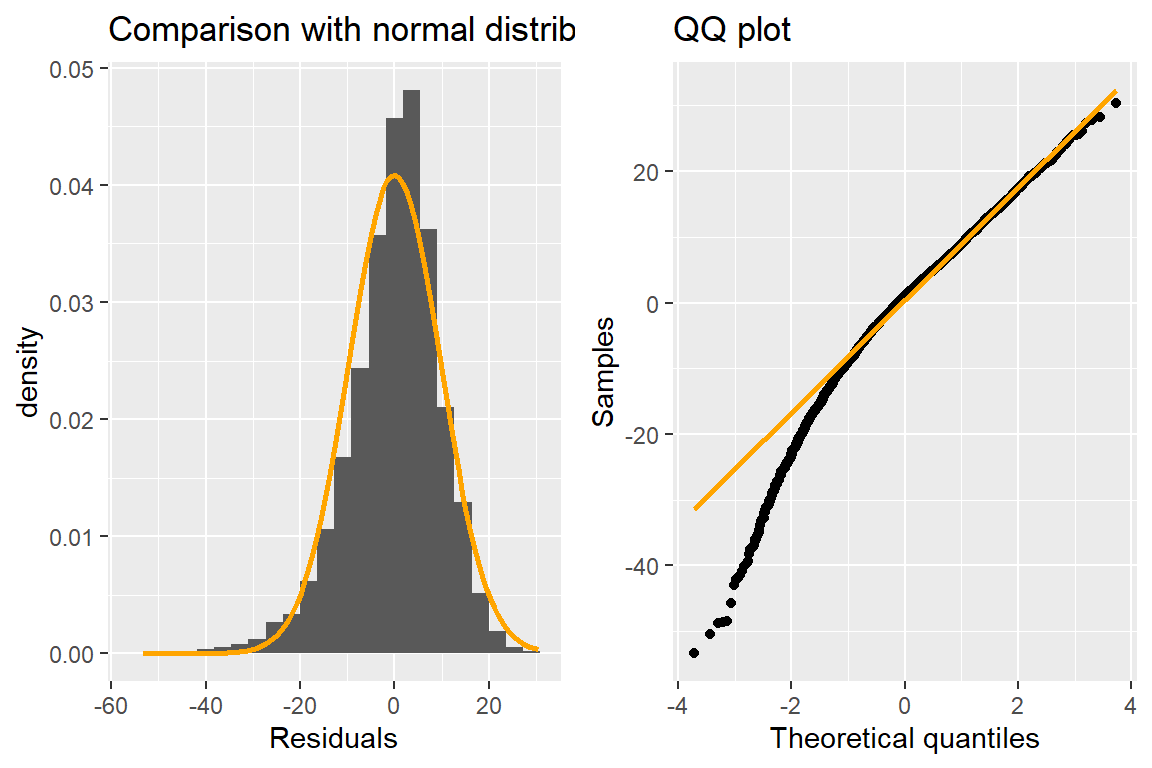
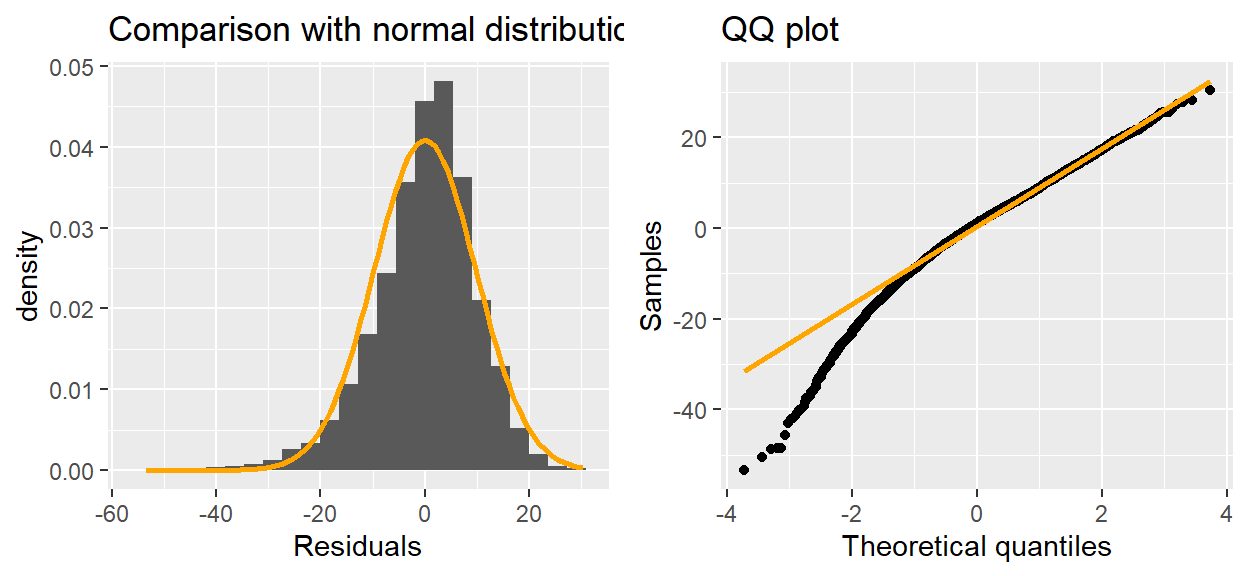
minor fix

diff --git a/index.html b/index.html
@@ -968,7 +968,7 @@ Residual plots
 <div class="cell-output-display">
 <div class="quarto-figure quarto-figure-center">
 <figure class="figure">
-<p><img src="index_files/figure-html/unnamed-chunk-37-1.png" class="img-fluid figure-img" width="576"></p>
+<p><img src="index_files/figure-html/unnamed-chunk-37-1.png" class="img-fluid figure-img" width="624"></p>
 </figure>
 </div>
 </div>
@@ -979,7 +979,7 @@ Residual plots
 <div class="cell-output-display">
 <div class="quarto-figure quarto-figure-center">
 <figure class="figure">
-<p><img src="index_files/figure-html/unnamed-chunk-38-1.png" class="img-fluid figure-img" width="576"></p>
+<p><img src="index_files/figure-html/unnamed-chunk-38-1.png" class="img-fluid figure-img" width="624"></p>
 </figure>
 </div>
 </div>
